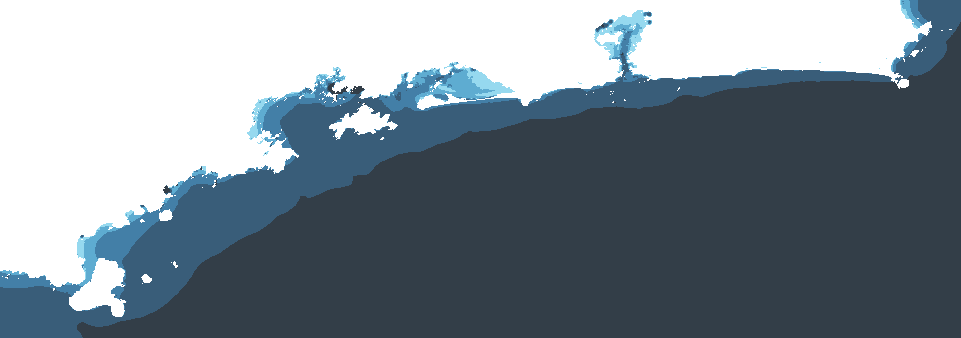
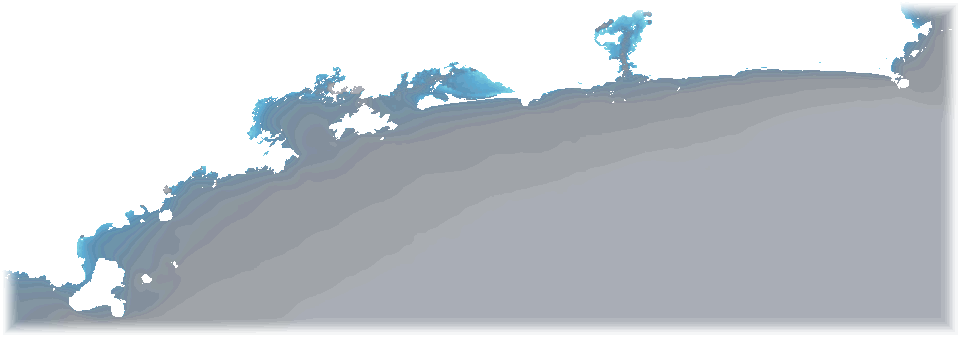
fix(mapa): batimetria vira gradiente continuo, nao mais adesivo de faixas
Reescreve a renderizacao da camada de profundidade (dado/bbox inalterados):
cor+alfa agora interpolam entre paradas em vez de saltar em 5 degraus
duros, alfa varia por profundidade (raso mais presente, fundo mais
discreto) em vez de bloco opaco fixo, e a borda de cada bbox esmaece
suavemente (smoothstep) em vez de cortar em aresta reta. raster-resampling
linear deixado explicito nas 2 layers. Isobatas (5/10/20/50m) avaliadas via
marching squares e descartadas: só a de 50m saiu elegante, as rasas
embolam perto de ilhas no grid de 450m - pior mostrar linha torta que nao
mostrar nada.

PNG cresceu (18,5->29,3 KB fina; 58,6->162,2 KB ampla, apos
deflateStrategy Z_FILTERED + quantizacao leve de canal) porque gradiente
continuo comprime pior que faixas solidas - troca deliberada, medida e
documentada.

diff --git a/web/components/mapa/mapa-nautico.tsx b/web/components/mapa/mapa-nautico.tsx
@@ -369,7 +369,13 @@ export function MapaNautico({
                 source: "batimetria-ampla",
                 maxzoom: ZOOM_TRANSICAO_BATIMETRIA,
                 layout: { visibility: camadasRef.current.profundidade ? "visible" : "none" },
-                paint: { "raster-fade-duration": 0 },
+                // "linear" já É o default do Mapbox GL (confirmado na style
+                // spec) — deixado explícito aqui de propósito, porque é
+                // exatamente a propriedade que o pedido do dono pedia pra
+                // conferir: sem isso a textura reamostraria com "nearest"
+                // (pixel quadrado, o outro sintoma clássico de "PNG colado")
+                // sempre que o zoom passa da resolução nativa do PNG.
+                paint: { "raster-fade-duration": 0, "raster-resampling": "linear" },
               },
               mapa.getLayer("batimetria")
                 ? "batimetria"
@@ -401,7 +407,9 @@ export function MapaNautico({
                 source: "batimetria",
                 minzoom: ZOOM_TRANSICAO_BATIMETRIA,
                 layout: { visibility: camadasRef.current.profundidade ? "visible" : "none" },
-                paint: { "raster-fade-duration": 0 },
+                // Ver comentário equivalente na camada "ampla" acima —
+                // "linear" já é o default, explícito de propósito.
+                paint: { "raster-fade-duration": 0, "raster-resampling": "linear" },
               },
               mapa.getLayer("openseamap") ? "openseamap" : undefined,
             )

diff --git a/docs/OPERACAO.md b/docs/OPERACAO.md
@@ -227,7 +227,7 @@ errada, a rota manda o barco por cima de terra ou de uma ilha.
 
 ## Camada de profundidade (batimetria)
 
-`web/public/mapa/batimetria*.{png,json}` — sombreamento de profundidade por faixas,
+`web/public/mapa/batimetria*.{png,json}` — gradiente contínuo de profundidade,
 desenhado no mapa como source `image` (sobreposição de bbox fixa, sem tiles).
 
 **DUAS camadas** desde a branch `onda-10-mapa-completo`. Antes só existia a "fina": ao
@@ -243,16 +243,79 @@ cobre, sem dupla pintura nem serrilhado:
 | Bbox | Ilhabela/SP → Búzios/RJ (4° × 1,4°) | Oiapoque → Chuí + oceano adjacente, `lngMin -58, latMin -34.5, lngMax -20, latMax 6` (38° × 40,5°) |
 | Dataset ERDDAP | `ETOPO_2022_v1_15s` | `ETOPO_2022_v1_60s` com stride 2 |
 | Resolução | ~450 m (15 arc-sec) | ~3,7 km (2 arc-min efetivo) |
-| Faixas | 0-5 / 5-10 / 10-20 / 20-50 / >50 m | 0-50 / 50-200 / 200-1000 / 1000-3000 / >3000 m |
+| Âncoras do gradiente | 0 / 5 / 10 / 20 / 50 / 120 m | 0 / 50 / 200 / 1000 / 3000 / 6000 m |
 | Zoom no mapa | `minzoom` 8 (ativa perto) | `maxzoom` 8 (ativa longe) |
-| Tamanho do PNG | 18,5 KB | 58,6 KB (1141×1216px, medido) |
+| Tamanho do PNG | 29,3 KB (era 18,5 KB nas 5 faixas sólidas) | 162,2 KB (era 58,6 KB) |
 
-**Por que faixas diferentes:** mar aberto é muito mais fundo que a Baía da Ilha Grande
-(o Atlântico tem ~3.700 m de profundidade média) — as faixas rasas da camada fina
-(0-5 m... >50 m) "achatariam" o oceano inteiro numa cor só de longe. A camada ampla usa
-a MESMA paleta de 5 cores (claro→escuro), remapeada para profundidades que fazem sentido
-vistas de longe. O aviso no painel do mapa (`web/components/mapa/mapa-nautico.tsx`)
-documenta as duas resoluções pro navegante.
+**Por que âncoras diferentes:** mar aberto é muito mais fundo que a Baía da Ilha Grande
+(o Atlântico tem ~3.700 m de profundidade média) — as âncoras rasas da camada fina
+(0, 5, 10... 120 m) "achatariam" o oceano inteiro numa cor só de longe. A camada ampla usa
+a MESMA paleta de 6 cores (claro→escuro, a última = `--fundo` do produto), remapeada para
+profundidades que fazem sentido vistas de longe. O aviso no painel do mapa
+(`web/components/mapa/mapa-nautico.tsx`) documenta as duas resoluções pro navegante.
+
+### Renderização: gradiente contínuo, não faixas sólidas (`onda-10-batimetria-bonita`)
+
+O desenho original (5 faixas de cor sólida, alfa fixo em 210, sem esmaecimento de borda)
+lia como **"PNG colado"** — foi exatamente essa a reação do dono comparando com o
+Navionics (gradiente suave, integrado à carta). A fonte do dado (ETOPO 2022) e as bboxes
+acima **não mudaram** — só como o grid vira pixel, tudo dentro de
+`scripts/gerar-batimetria.mjs`:
+
+1. **Gradiente contínuo** (`amostrarGradiente`): cor E alfa são interpolados linearmente
+   entre "paradas" de profundidade, não mais um degrau duro por faixa. As âncoras de cor
+   são as MESMAS 5 cores da paleta antiga (reaproveitadas como marcos do gradiente), mais
+   uma 6ª âncora funda = `--fundo` (#0b1d2d) de `web/app/globals.css` — literalmente a cor
+   de fundo do produto.
+2. **Alfa variável**: raso é mais opaco (alfa 230/200 no anchor 0 m — é a informação que
+   importa pra lancha), fundo é mais transparente (alfa 85/55 no anchor mais profundo —
+   contexto, deixa o mapa-base/satélite aparecer por baixo). A camada **tinge** a água em
+   vez de cobri-la com um bloco opaco uniforme. `raster-opacity` da layer continua no
+   default (1) de propósito — a variação já está no alfa por pixel do PNG; um
+   `raster-opacity` uniforme só achataria o contraste raso↔fundo que essa mudança criou.
+3. **Esmaecimento de borda** (`fatorEsmaecimentoBorda`, smoothstep): o alfa cai pra 0
+   suavemente nos últimos pixels de cada lado do bbox — ataca direto o sintoma "aresta
+   reta onde a imagem acaba". 6% do menor lado da imagem, piso 6px/teto 48px (20px na fina,
+   48px na ampla). Aplicado às duas camadas.
+4. **`raster-resampling: "linear"`**, explícito em `web/components/mapa/mapa-nautico.tsx`
+   nas duas layers — já é o default do Mapbox GL (confirmado na style spec), mas deixado
+   explícito porque é exatamente a propriedade que evita reamostragem `"nearest"` (pixel
+   quadrado) ao dar zoom além da resolução nativa do PNG.
+5. **Peso do PNG**: gradiente contínuo por pixel é ótimo pro olho e péssimo pro
+   compressor — cada pixel difere levemente do vizinho, o que destrói os blocos de cor
+   repetida que a versão de faixas sólidas comprimia de graça (medido: sem quantização
+   nenhuma, a fina foi de 18,5 KB pra 90 KB e a ampla de 58,6 KB pra 639 KB). Dois ajustes
+   trouxeram de volta pra perto do original sem reintroduzir degrau visível:
+   `deflateStrategy: 1` (Z_FILTERED do zlib, ~30% menor sozinho) e quantização leve dos
+   canais de saída (`QUANT_PASSO_COR = 12`, `QUANT_PASSO_ALFA = 10` — arredonda pro
+   múltiplo mais próximo, ~5%/4% do range 0-255, abaixo do que o olho distingue numa cor
+   semitransparente sobre mapa-base). Testado visualmente em 3 níveis antes de escolher
+   este: um passo maior (18/16) já mostrava leve terraceamento no oceano profundo por
+   ~5 KB de economia a mais — não valeu a troca.
+6. **Resolução da fina**: avaliado subir acima de 15 arc-sec (pedido explícito da task) e
+   **descartado** — é a resolução nativa mais fina do ETOPO 2022 disponível sem licença
+   restrita (ver seção "Por que NÃO usamos as cartas da Marinha" abaixo), e
+   supersample-ar o PNG manualmente antes de escrever seria redundante: é exatamente o que
+   `raster-resampling: "linear"` já faz em tempo de render (interpolação bilinear da GPU
+   entre pixels ao dar zoom), só que sem inflar o arquivo.
+7. **Isóbatas (contornos 5/10/20/50 m) — avaliadas e descartadas.** Protótipo com marching
+   squares na grade fina (450 m), com encadeamento de segmentos em polilinhas + suavização
+   Chaikin (2 iterações). Resultado **honesto e misto**: a isóbata de 50 m saiu limpa (seguiu
+   a quebra da plataforma continental de forma suave); a de 20 m ficou aceitável na costa
+   aberta mas embolada perto de arquipélagos complexos (a região de Ilhabela tem ilhotas
+   menores que uma célula de 450 m); as de 5 m e 10 m — as que mais importam pra navegação
+   rasa — ficaram visivelmente serrilhadas/embaraçadas perto de qualquer ilha pequena, com
+   ou sem suavização (o grid de 450 m simplesmente não resolve essas formas). Mostrar uma
+   linha de "5 m" torta bem ao lado de um recife seria pior que não mostrar nada — o tipo de
+   falsa precisão mais perigoso justo na profundidade mais crítica. Como só 1 das 4
+   profundidades pedidas (50 m, a menos útil pro dia a dia de uma lancha) ficou
+   consistentemente elegante, a linha de corte foi **não enviar isóbatas nesta rodada** —
+   prefere-se a camada de gradiente sozinha, limpa, a uma com esse extra malfeito.
+
+Verificado nos 3 estilos do painel (Náutico, Satélite, Relevo 3D): `batimetria-ampla` <
+`batimetria` < `openseamap` na pilha de camadas em todos, com `raster-resampling: "linear"`
+presente e a troca de estilo (inclusive via `setStyle()`, que destrói/reconstrói layers
+customizadas) preservando tudo.
 
 **Por que não 15 arc-sec na costa inteira:** a bbox da camada ampla (38° × 40,5°) em 15
 arc-sec geraria dezenas de milhões de pixels — pesado demais pra um PNG estático
